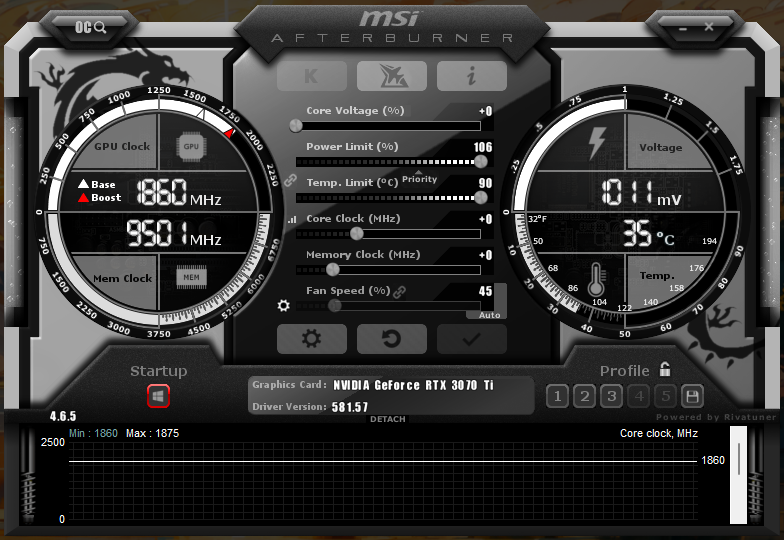
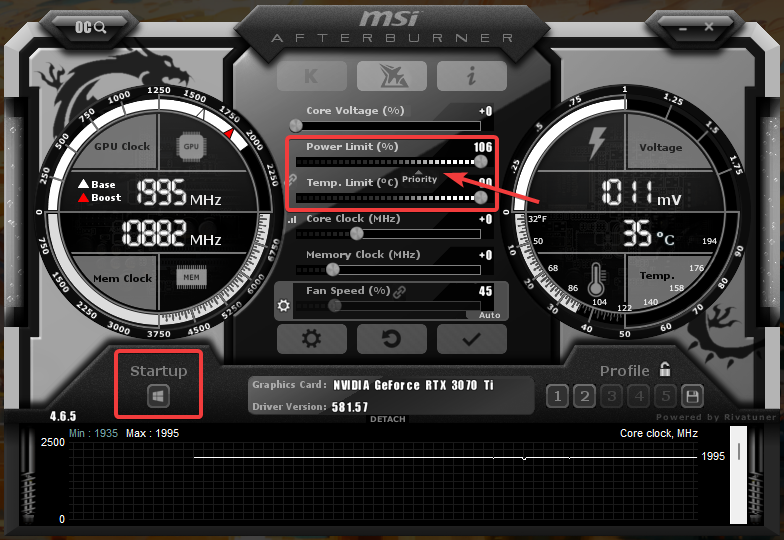
guide

diff --git a/README.md b/README.md
@@ -1,2 +1,146 @@
-# gpu-oc-uv
-Guide on how to OC/UV your GPU via MSI Afterburner.
+# GPU OC/UV Guide
+
+Overclocking means increasing the clock speed, which increases temperatures. Undervolting limits the voltage for the GPU, resulting in lower voltage, wattage, and temperature.
+
+## ToC
+
+- [Preconfigurations]()
+  - [MSI Afterburner]()
+  - [3DMark]()
+  - [Superpositions]()
+  - [OCCT]()
+- [Overclocking]()
+  - [Increasing the core clock & finding the voltage]()
+- [Undervolting]()
+  - [Limiting the voltage]()
+- [Memory Overclock]()
+  - [Increasing the memory clock]()
+- [Final Test]()
+
+## Preconfigurations
+
+Install [HWiNFO](https://www.hwinfo.com/download/) to monitor all kinds of information during stress tests (sensors only). I'm leaving out the VBIOS part, but if you still want to try it, flash the correct [VBIOS](https://www.techpowerup.com/vgabios/) (search for detailed instructions if you want to do this).
+
+You need to pay attention to the performance limit during overclocking, as you should not constantly reach it (display `Yes`):
+
+![](https://github.com/5Noxi/gpu-oc-uv/blob/main/images/hwinfo-powerlimit.png?raw=true)
+
+### MSI Afterburner
+Download [MSI Afterburner](https://www.msi.com/Landing/afterburner/graphics-cards) and set a custom fan curve, which could look like the one in the image below (make sure the speed is not too low, as this would affect your results). You can use the preconfigured [cfg file]() or skip it.
+
+![](https://github.com/5Noxi/gpu-oc-uv/blob/main/images/fancurve.png?raw=true)
+
+If you don't want MSI afterburner running in the background all time, set a static curve and load a profile on system start:
+```ps
+schtasks /create /sc ONSTART /tn "MSIAfterburnerProfile" /tr "powershell.exe -NoProfile -Command \"Set-Location 'C:\Program Files (x86)\MSI Afterburner'; .\MSIAfterburner.exe /profile1\"" /rl HIGHEST /delay 0000:20
+```
+
+| Parameter | Description |
+|--|--|
+| /sc `<scheduletype>` | Specifies the schedule type. The valid values include:<ul><li>**MINUTE** - Specifies the number of minutes before the task should run.</li><li>**HOURLY** - Specifies the number of hours before the task should run.</li><li>**DAILY** - Specifies the number of days before the task should run.</li><li>**WEEKLY** Specifies the number of weeks before the task should run.</li><li>**MONTHLY** - Specifies the number of months before the task should run.</li><li>**ONCE** - Specifies that that task runs once at a specified date and time.</li><li>**ONSTART** - Specifies that the task runs every time the system starts. You can specify a start date, or run the task the next time the system starts.</li><li>**ONLOGON** - Specifies that the task runs whenever a user (any user) logs on. You can specify a date, or run the task the next time the user logs on.</li><li>**ONIDLE** - Specifies that the task runs whenever the system is idle for a specified period of time. You can specify a date, or run the task the next time the system is idle.</li><li>**ONEVENT** - Specifies that the task runs based on an event that matches information from the system event log including the EventID. |
+| /tn `<taskname>` | Specifies a name for the task. Each task on the system must have a unique name and must conform to the rules for file names, not exceeding 238 characters. Use quotation marks to enclose names that include spaces. To store your scheduled task in a different folder, run **/tn** `<folder name\task name>`. |
+| /tr `<Taskrun>` | Specifies the program or command that the task runs. Type the fully qualified path and file name of an executable file, script file, or batch file. The path name must not exceed 262 characters. If you don't add the path, **schtasks** assumes that the file is in the `<systemroot>\System32` directory. |
+| /rl `<level>` | Specifies the Run Level for the job. Acceptable values are **LIMITED** (scheduled tasks will be ran with the least level of privileges, such as Standard User accounts) and **HIGHEST** (scheduled tasks will be ran with the highest level of privileges, such as Superuser accounts). The default value is **Limited**. |
+| /delay `<delaytime>` | Specifies the wait time to delay running the task after it's triggered in mmmm:ss format. |
+
+> https://learn.microsoft.com/en-us/windows-server/administration/windows-commands/schtasks-create
+
+ 
+Set the `Power Limit` and `Temp. Limit` options to the maximum value and change the priority to power limit. Also, disable the automatic start option for now to prevent a loop if something goes wrong.
+
+![](https://github.com/5Noxi/gpu-oc-uv/blob/main/images/MSIAfterburner-limits.png?raw=true)
+
+---
+
+Install [Superposition](https://benchmark.unigine.com/superposition), [OCCT](https://www.ocbase.com/download), [memtest vulkan](https://github.com/GpuZelenograd/memtest_vulkan/releases), and [3DMark](https://store.steampowered.com/app/223850/3DMark/). Superposition is used for stress testing (including VRAM), OCCT can be used to find errors after completing your OC//UV, and memtest is used for the final stress test of your VRAM.
+
+### 3DMark
+
+Use `Time Spy` and `Steel Nomad` - Avoid wildlife, solar bay and any light versions.
+
+### Superpositions
+
+Use the highest preset that doesn't exceed your VRAM limit to test your core clock speed. Use 8k/4k optimized to test your VRAM.
+
+### OCCT
+
+Go into the 3D Adaptive tab and use the following settings:
+
+![](https://github.com/5Noxi/gpu-oc-uv/blob/main/images/occt.png?raw=true)
+
+ 
+## Overclocking
+
+Your goal is to find a specific voltage and clock frequency that don't reach the performance limit (downclock) and don't cause a crash. Raising the clock frequency alone isn't really desirable, as you'll be throttling performance most of the time (reaching the performance limit), so you should limit it to a specific voltage.
+
+- If you ran a stress test with `+180` @ `1025` and it crashed, it's unlikely that 180 will run stably at a different voltage.
+- Avoid OCCT while searching for voltage, as it'll most likely cause your card to throtte.
+- Use different stress tests & let them run for `~30min`, not just some seconds.
+- Hitting the power limit = downclocking
+- Your clock and effective clock shouldn't have a big difference
+
+
+**Kepler, Maxwell, Pascal** GPU architecture uses `12.5 MHz` steps
+> GTX 600, GTX 700, GTX Titan, GTX 750, GTX 900, Titan X, GTX 10 Series
+**Turing, Ampere, Ada Lovelace** GPU architecture uses `15 MHz` steps
+> RTX 20 Series, RTX 30 Series, RTX 40 Series, RTX 50 Series
+
+---
+
+### Increasing the core clock & finding the voltage
+
+1. Start at `900-950mv` & `+50MHz` - `75MHz` core clock and let superposition/3DMark run once, this should normally be stable - make sure to monitor your temperatures via HWiNFO, it should be `>75°C`, if it's already above `~85°C`, don't OC, do a UV.
+> Limiting the voltage:
+> 1. Open the curve editor (`CTRL` + `F`)
+> 2. Click on the next right point beside the mV you want (e.g. `906`, if you want `900`)
+> 3. Press `CTRL`, then highlight the curve from the right to the selected point (`906`)
+> 4. Select your point (`906`) and drag it down, so the last point is below the first point (e.g. `900`) - example in UV part
+2. If it finished without crashing, increase the clock frequency by `15/12.5 MHz` and run another stress test. You can also increase the mV if you haven't reached the power limit.
+3. Repeat it until one of the listed situations occurs:
+  - If you're crashing, lower the core clock
+  - If you reach the power limit, lower the mV
+4. You should now have found a voltage with a core clock that passes all stress tests without crashing/hitting the PL all time.
+
+How your result could look like:
+
+![](https://github.com/5Noxi/gpu-oc-uv/blob/main/images/oc.png?raw=true)
+
+
+## Undervolting
+
+As mentioned at the beginning, undervolting limits the voltage for the GPU, resulting in lower voltage, wattage, and temperature.
+
+---
+
+### Limiting the voltage
+
+1. Open the curve editor (`CTRL` + `F`)
+2. Click on the next **right point** beside the mV you want (e.g. `906`, if you want `900`)
+3. Press `CTRL`, then highlight the curve from the right to the selected point (`906`)
+4. Select your point (`906`) and drag it down, so the last point is below the first point (e.g. `900`), example:
+
+![](https://github.com/5Noxi/gpu-oc-uv/blob/main/images/uv-curve.png?raw=true)
+
+5. Safe the settings to a profile
+
+
+## Memory Overclock
+
+Make sure to use a stable core clock speed. Always save the benchmark results before overclocking, as you will usually stop the memory overclocking caused by worse results rather than crashing. You should also test for artifacts that occur when memory overclocking is unstable (GPU artifacts are visual distortions, glitches, flickering textures, colored pixels, or screen tearing). Most graphics cards can achieve high memory overclocking, so you can start with stress tests at `250–500 MHz`.
+
+---
+
+### Increasing the memory clock
+
+1. Enter your selected start clock
+2. Stress test it with superposition
+3. If stable, increase it by `100MHz`
+4. Continue with the procedure until you notice worse results, artifacts, or crashes
+5. Go down to your last stable value and increase it by `50MHz`
+  - Stress test it, if stable increase it by `5-10MHz`, if not go down by `50` and increase it by `5-10MHz`
+6. Safe your stable memory clock to a profile
+7. Test the stability of your memory clock via [memtest vulkan](https://github.com/GpuZelenograd/memtest_vulkan/releases), let it run for `~30-60min`
+ 
+## Final Test
+
+Use [OCCT](https://www.ocbase.com/download) to search for errors and for testing the stability of your OC/UV. [Furmark](https://geeks3d.com/furmark/) is known for consuming a lot of power. You can let it run for a while after completing all the steps.
